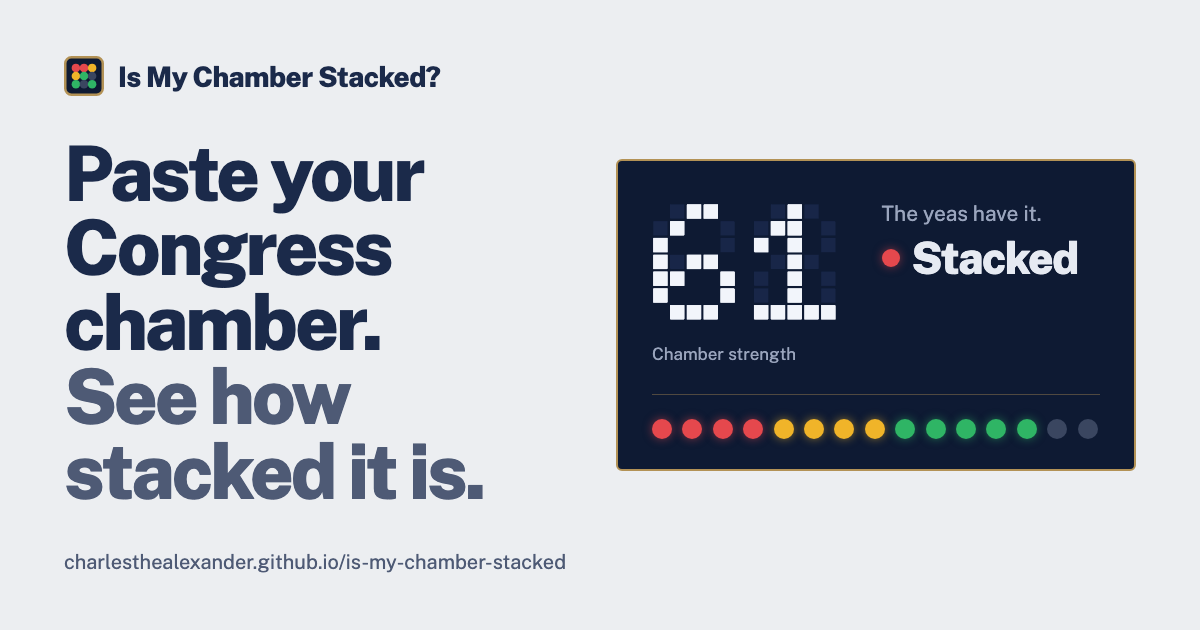
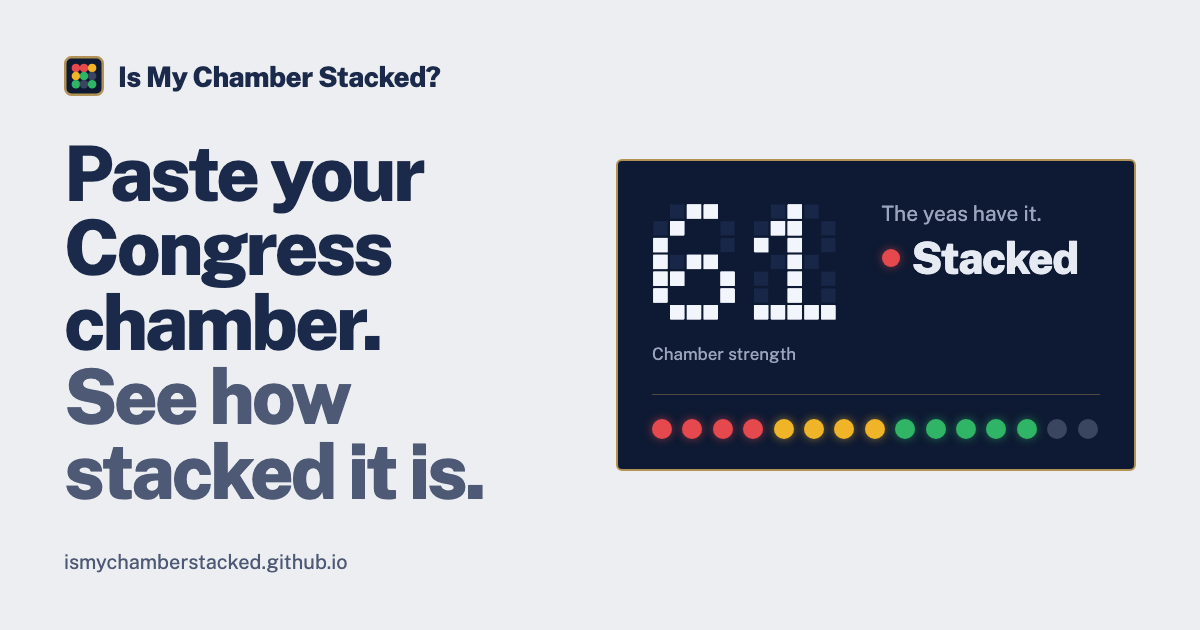
Move to ismychamberstacked.github.io
Point the share-card URLs, footer and About links, README and the preview image at the new address.

Changed region(s): [[0.0308, 0.8746, 0.4933, 0.9048]]

diff --git a/index.html b/index.html
@@ -12,15 +12,15 @@
 <meta property="og:site_name" content="Is My Chamber Stacked?">
 <meta property="og:title" content="Is My Chamber Stacked?">
 <meta property="og:description" content="Paste your Congress chamber. See how stacked it is.">
-<meta property="og:url" content="https://charlesthealexander.github.io/is-my-chamber-stacked/">
-<meta property="og:image" content="https://charlesthealexander.github.io/is-my-chamber-stacked/assets/og.png">
+<meta property="og:url" content="https://ismychamberstacked.github.io/">
+<meta property="og:image" content="https://ismychamberstacked.github.io/assets/og.png">
 <meta property="og:image:width" content="1200">
 <meta property="og:image:height" content="630">
 <meta property="og:image:alt" content="A navy vote board reading 61, Stacked, with red, amber and green lights.">
 <meta name="twitter:card" content="summary_large_image">
 <meta name="twitter:title" content="Is My Chamber Stacked?">
 <meta name="twitter:description" content="Paste your Congress chamber. See how stacked it is.">
-<meta name="twitter:image" content="https://charlesthealexander.github.io/is-my-chamber-stacked/assets/og.png">
+<meta name="twitter:image" content="https://ismychamberstacked.github.io/assets/og.png">
 <link rel="preconnect" href="https://fonts.googleapis.com">
 <link rel="preconnect" href="https://fonts.gstatic.com" crossorigin>
 <link href="https://fonts.googleapis.com/css2?family=Doto:wght@800&family=Public+Sans:ital,wght@0,400..800;1,400&display=swap" rel="stylesheet">
@@ -54,7 +54,7 @@
   <div class="wrap">
     <p id="foot-data">Covers varsity Congress results from every Tabroom circuit since 2020-21.</p>
     <p>Anyone without a varsity Congress result on Tabroom shows up as a Mystery Box.</p>
-    <p>Built from public Tabroom results. Not affiliated with Tabroom or the NSDA. <a href="https://github.com/CharlesTheAlexander/is-my-chamber-stacked">Source on GitHub</a></p>
+    <p>Built from public Tabroom results. Not affiliated with Tabroom or the NSDA. <a href="https://github.com/ismychamberstacked/ismychamberstacked.github.io">Source on GitHub</a></p>
   </div>
 </footer>
 </body>

diff --git a/assets/pages.js b/assets/pages.js
@@ -589,7 +589,7 @@ CS.route("about", async view => {
         E("li", {}, E("strong", {}, "Presiding officers look like everyone else. "), "Results don't say who presided."),
         E("li", {}, E("strong", {}, "It's a model. "), "The weights are hand-tuned to match how the circuit talks about results. Use it to prep, not to panic.")),
       E("p", {}, E("strong", {}, "Want your name off this site? "),
-        E("a", { href: "https://github.com/CharlesTheAlexander/is-my-chamber-stacked/issues/new?title=Remove%20my%20name" }, "Open an issue on GitHub"),
+        E("a", { href: "https://github.com/ismychamberstacked/ismychamberstacked.github.io/issues/new?title=Remove%20my%20name" }, "Open an issue on GitHub"),
         " with your name as Tabroom shows it. It disappears from chamber checks, profiles and rankings after the next Monday update.")),
 
     E("p", { class: "ab-fine" }, "Not affiliated with Tabroom.com, the National Speech & Debate Association, the National Catholic Forensic League or the Tournament of Champions. All results belong to the tournaments that published them.")));

diff --git a/og.html b/og.html
@@ -49,7 +49,7 @@ h1 span { display: block; color: #4E5A75; }
     Is My Chamber Stacked?
   </div>
   <h1>Paste your Congress chamber. <span>See how stacked it is.</span></h1>
-  <p class="url">charlesthealexander.github.io/is-my-chamber-stacked</p>
+  <p class="url">ismychamberstacked.github.io</p>
   <div class="board">
     <div class="top">
       <div>

diff --git a/README.md b/README.md
@@ -2,7 +2,7 @@
 
 Paste your Congressional Debate chamber from Tabroom and see how strong the room is, how fried you are, and who to watch.
 
-**Live site: https://charlesthealexander.github.io/is-my-chamber-stacked/**
+**Live site: https://ismychamberstacked.github.io/**
 
 ![A chamber report: strength 53, "Stacked", with a rated roster](docs/screenshot.png)
 
@@ -14,7 +14,7 @@ Paste your Congressional Debate chamber from Tabroom and see how strong the room
 
 ## How the rating works
 
-Each result on Tabroom earns points by the tournament's level, how far the competitor got, and how big the field was. Recent results count more. A person's rating is their best results blended on a 0-100 curve, with floors for bids and TOC finals. A chamber's strength is 75% the average of the players who would break plus 25% the average of everyone else. The cutoffs for "Stacked" and the other labels come from 173 real 2025-26 national-circuit prelim chambers. The full formula, with worked examples, is on the [How it works](https://charlesthealexander.github.io/is-my-chamber-stacked/#/about) page.
+Each result on Tabroom earns points by the tournament's level, how far the competitor got, and how big the field was. Recent results count more. A person's rating is their best results blended on a 0-100 curve, with floors for bids and TOC finals. A chamber's strength is 75% the average of the players who would break plus 25% the average of everyone else. The cutoffs for "Stacked" and the other labels come from 173 real 2025-26 national-circuit prelim chambers. The full formula, with worked examples, is on the [How it works](https://ismychamberstacked.github.io/#/about) page.
 
 ## Data pipeline
 
